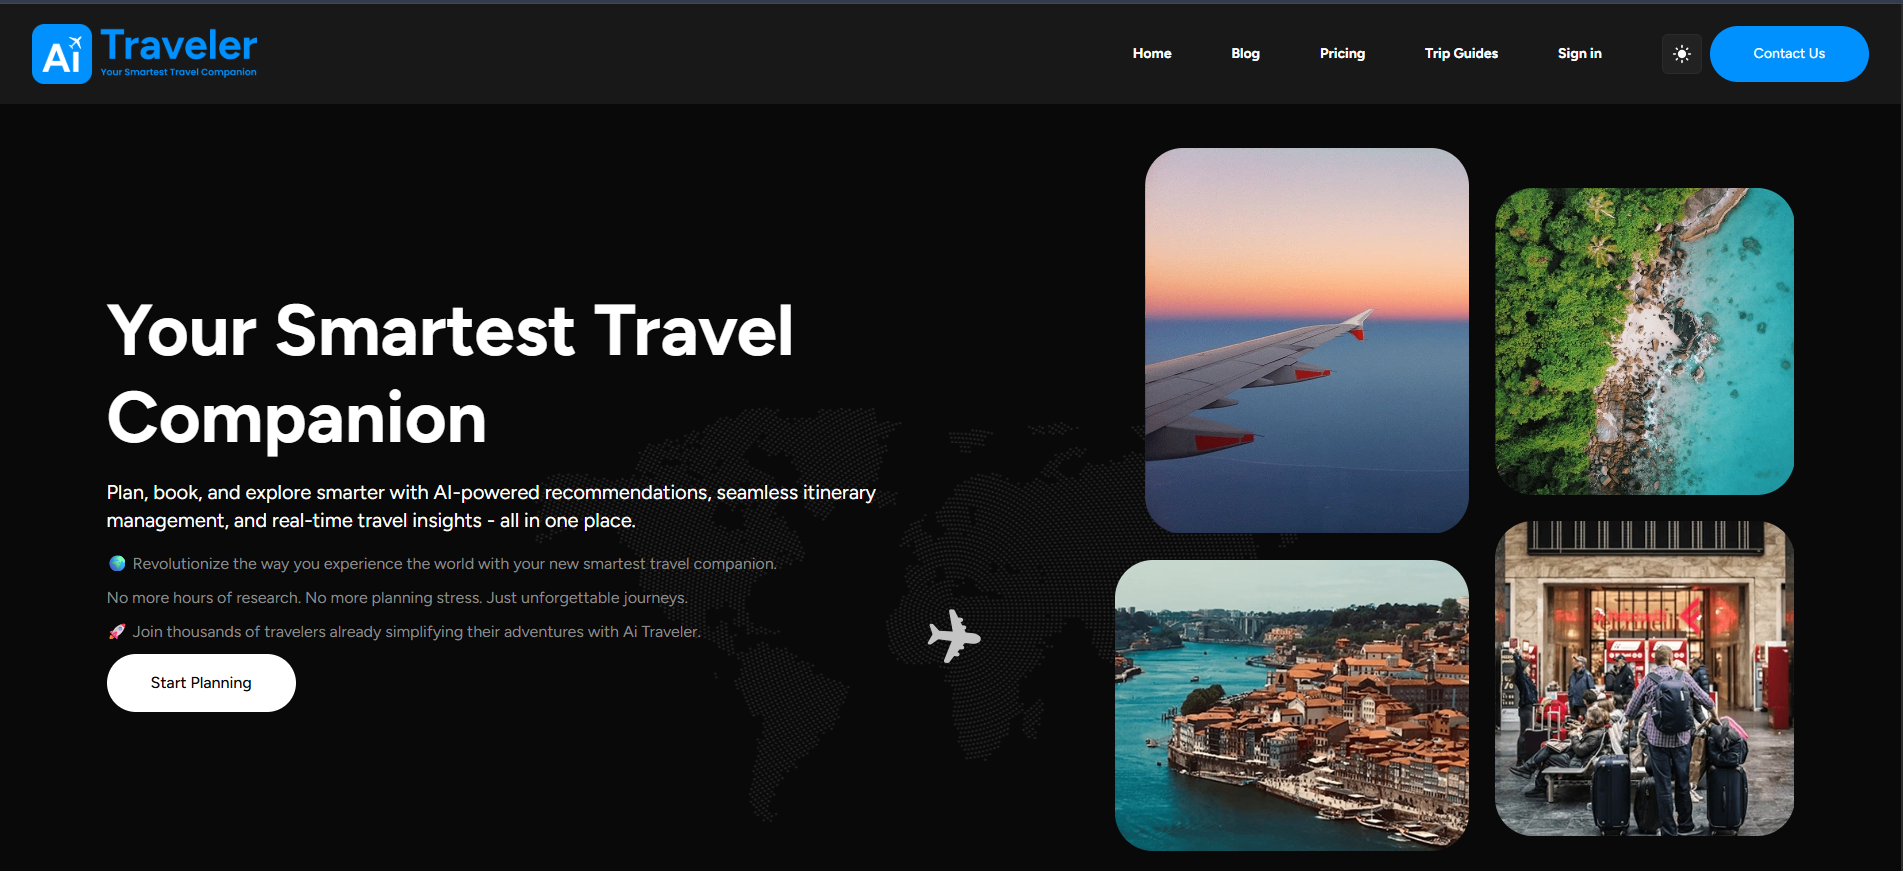
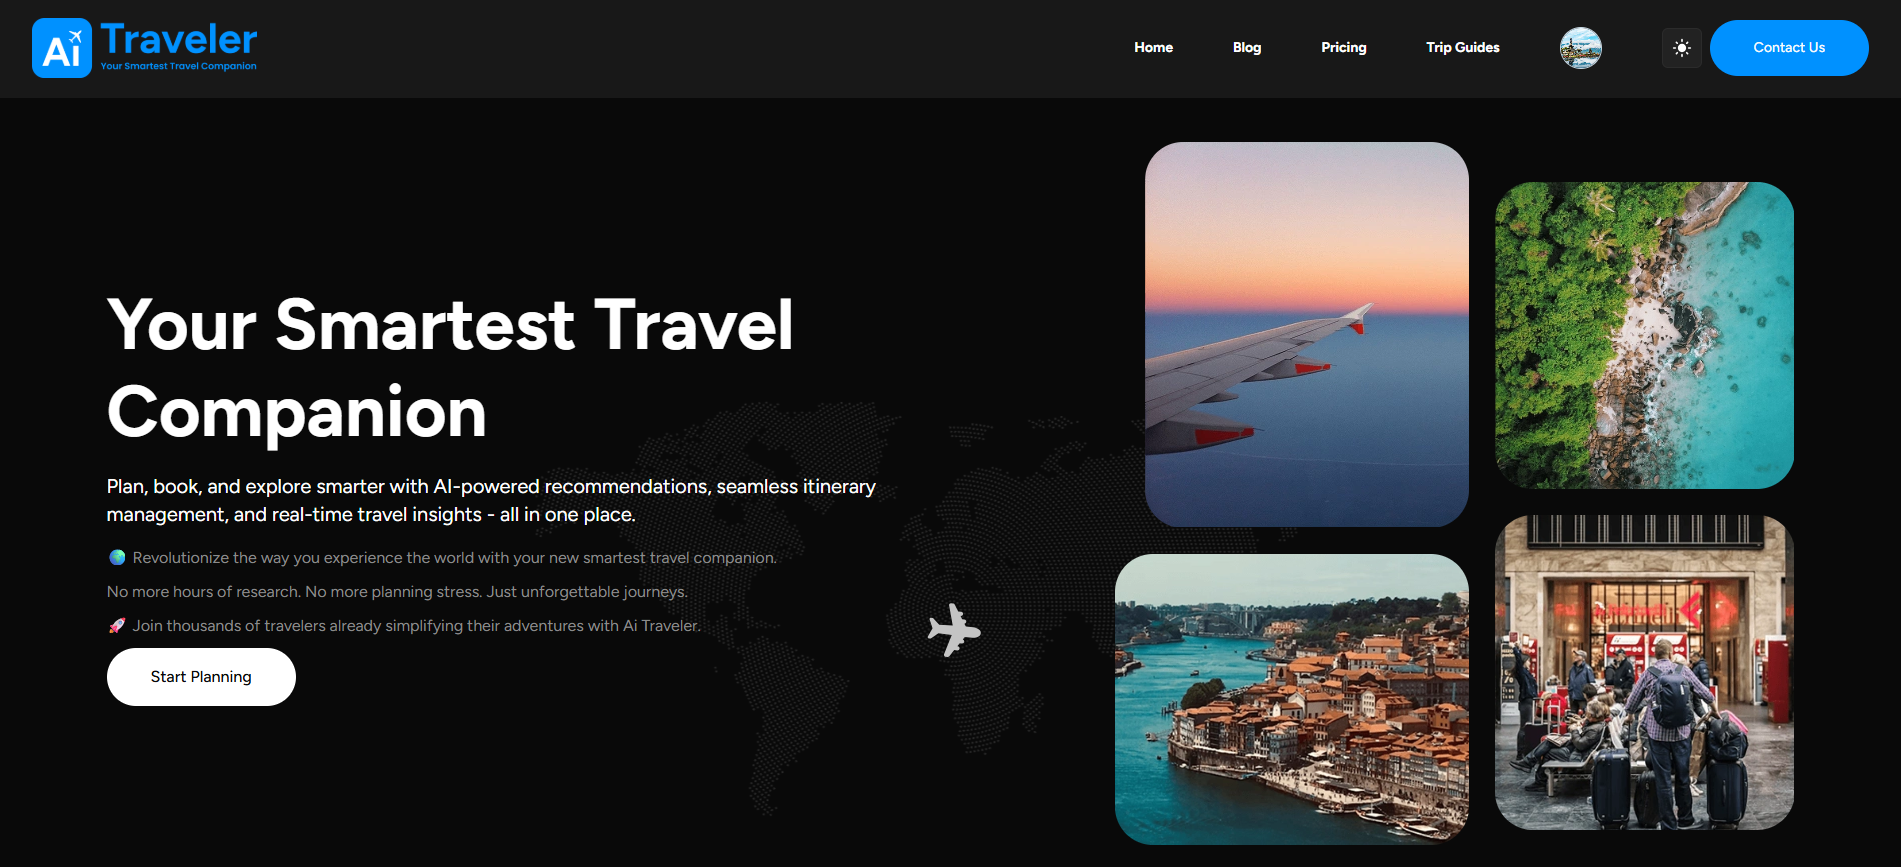
setup the data and image int the projects

diff --git a/src/components/Projects.tsx b/src/components/Projects.tsx
@@ -6,6 +6,11 @@ import Link from "next/link";
 import { useRef, useState, useEffect } from "react";
 import Image from "next/image";
 import aitraveler from "../assets/projects/aitraveler.png"
+import p3jets from "../assets/projects/p3.png"
+import fivepull from "../assets/projects/fivepull.png"
+import porterYatch from "../assets/projects/porterYatch.png"
+import portfolio from "../assets/projects/portfolio.png"
+import gamming from "../assets/projects/gamming.png"
 
 interface Project {
   title: string;
@@ -20,57 +25,57 @@ const projects = [
   {
     title: "AI-Traveler",
     description:
-      "A comprehensive dashboard for managing products, orders, and customers with real-time analytics.",
-    tech: ["Next.js", "TypeScript", "TailwindCSS", "Prisma"],
+      "I developed Skillzap ai Travel website where users can create a personalized itinerary with the help of AI. Users can chat with the AI to ask for details about different places and customize their trip according to their preferences. They can also set their travel budget, and based on that, the AI generates a complete trip plan.",
+    tech: ["React JS", "JavaScript", "Tailwind CSS", "Stripe"],
     image: aitraveler,
-    live: "#",
+    live: "https://aitraveler.ai/",
     github: "#",
   },
   {
-    title: "Social Media App",
+    title: "P3 Jets",
     description:
-      "A full-featured social media platform with real-time chat, posts, and user authentication.",
-    tech: ["React", "Node.js", "Socket.io", "MongoDB"],
-    image: aitraveler,
-    live: "#",
+      "I developed a high-performance, SEO-optimized Next.js website for a luxury jet booking company. The platform enables users to explore and book premium private jets through an elegant, modern interface, with fast server-side rendering to improve search visibility. I implemented an advanced multi-filter system that allows users to refine listings by location, duration, aircraft length, price, and amenities, ensuring a smooth and intuitive browsing experience. The website is fully responsive, speed-optimized, and designed to showcase luxury jet listings in a visually appealing and user-focused way.",
+    tech: ["Next.js", "Tailwind CSS", "firebase"],
+    image: p3jets,
+    live: "https://www.p3jets.com/",
     github: "#",
   },
   {
-    title: "Task Management Tool",
+    title: "FivePull",
     description:
-      "A productivity app for teams to organize tasks, set deadlines, and track progress.",
-    tech: ["Vue.js", "Firebase", "Vuex"],
-    image: aitraveler,
-    live: "#",
+      "It is a modern and clean single-page landing website designed with a simple yet elegant user interface and smooth animations to create an engaging user experience. The landing page is fully responsive and optimized for performance, ensuring fast loading and seamless interaction across all devices.",
+    tech: ["React JS", "Tailwind CSS"],
+    image: fivepull,
+    live: "https://tranquil-basbousa-1d5c14.netlify.app/",
     github: "#",
   },
   {
-    title: "Portfolio Website",
+    title: "Porter Yachts",
     description:
-      "A modern portfolio website with smooth animations and dark mode support.",
-    tech: ["Next.js", "Framer Motion", "TailwindCSS"],
-    image: aitraveler,
-    live: "#",
+      "I developed a high-performance, SEO-optimized Next.js website for a luxury yacht booking company that allows users to explore and book premium yachts through a modern, elegant, and user-friendly interface. The platform uses fast server-side rendering to improve search visibility and overall performance. I implemented an advanced multi-filter system that enables users to refine yacht listings by location, duration, length, price, and amenities, providing a smooth and intuitive browsing experience. The website is fully responsive, speed-optimized, and carefully designed to showcase luxury yacht listings in a visually engaging and user-centric manner.",
+    tech: ["Next.js", "Tailwind CSS", "firebase"],
+    image: porterYatch,
+    live: "https://www.porteryachts.com/",
     github: "#",
   },
   {
-    title: "Weather App",
+    title: "Gamming",
     description:
-      "A beautiful weather application providing real-time forecasts and weather maps.",
-    tech: ["React", "OpenWeather API", "Chart.js"],
-    image: aitraveler,
-    live: "#",
+      "I developed a modern gaming website built with rich and immersive GSAP animations, designed to deliver a highly engaging and interactive user experience. The website features advanced, smooth, and visually dynamic animations that help create a modern gaming feel, with seamless transitions between sections and interactions.",
+    tech: ["React", "GSAP", "motion", "Tailwind CSS"],
+    image: gamming,
+    live: "https://gamewebsitevatsal.netlify.app/",
     github: "#",
   },
-  {
-    title: "Fitness Tracker",
-    description:
-      "An app to track workouts, diet, and health metrics with visual progress charts.",
-    tech: ["React Native", "Redux", "Node.js"],
-    image: aitraveler,
-    live: "#",
-    github: "#",
-  },
+  // {
+  //   title: "Fitness Tracker",
+  //   description:
+  //     "An app to track workouts, diet, and health metrics with visual progress charts.",
+  //   tech: ["React Native", "Redux", "Node.js"],
+  //   image: aitraveler,
+  //   live: "#",
+  //   github: "#",
+  // },
 ];
 
 export default function Projects() {
@@ -102,7 +107,7 @@ export default function Projects() {
           <div className="absolute bottom-[20%] right-[10%] w-[30%] h-[30%] bg-secondary rounded-full blur-[100px]" />
         </div>
 
-        <div className="absolute top-10 left-0 w-full text-center z-10">
+        <div className="absolute top-[80px] left-0 w-full text-center z-10">
           <motion.div
             initial={{ opacity: 0, y: 20 }}
             whileInView={{ opacity: 1, y: 0 }}
@@ -125,7 +130,7 @@ export default function Projects() {
           </motion.div>
         </div>
 
-        <motion.div style={{ x }} className="flex gap-8 px-10 md:px-20">
+        <motion.div style={{ x }} className="flex gap-8 px-10 md:px-20 pt-[110px]">
           {projects.map((project) => (
             <div
               key={project.title}
@@ -137,7 +142,7 @@ export default function Projects() {
                   src={project.image}
                   alt={project.title}
                   fill
-                  className="object-cover transition-transform duration-500 group-hover:scale-110"
+                  className="object-fill  transition-transform duration-500 group-hover:scale-110"
                 />
               </div>
 
@@ -170,11 +175,11 @@ export default function Projects() {
               initial={{ opacity: 0, scale: 0.9, y: 20 }}
               animate={{ opacity: 1, scale: 1, y: 0 }}
               exit={{ opacity: 0, scale: 0.9, y: 20 }}
-              className="relative w-full max-w-7xl max-h-[95vh] overflow-hidden rounded-3xl border border-white/10 bg-[#0a0a0a] shadow-[0_0_50px_rgba(0,0,0,0.5)] flex flex-col"
+              className="relative w-full max-w-7xl max-h-[95vh] overflow-hidden rounded-3xl border border-primary/40 bg-[#0a0a0a] shadow-[0_0_80px_rgba(59,130,246,0.4),_0_0_30px_rgba(59,130,246,0.2)] flex flex-col"
             >
               {/* Decorative Background Glows */}
-              <div className="absolute top-[-10%] right-[-10%] w-[40%] h-[40%] bg-primary/20 rounded-full blur-[100px] pointer-events-none" />
-              <div className="absolute bottom-[-10%] left-[-10%] w-[40%] h-[40%] bg-secondary/10 rounded-full blur-[100px] pointer-events-none" />
+              <div className="absolute top-[-10%] right-[-10%] w-[40%] h-[40%] bg-primary/30 rounded-full blur-[100px] pointer-events-none" />
+              <div className="absolute bottom-[-10%] left-[-10%] w-[40%] h-[40%] bg-secondary/20 rounded-full blur-[100px] pointer-events-none" />
 
               <button
                 onClick={() => setSelectedProject(null)}
@@ -183,37 +188,36 @@ export default function Projects() {
                 <X size={20} />
               </button>
 
-              <div className="relative z-10 grid grid-cols-1 lg:grid-cols-2 h-full overflow-y-auto custom-scrollbar">
+              <div className="relative z-10 flex flex-col h-full overflow-y-auto custom-scrollbar">
                 {/* Image Section */}
-                <div className="relative h-[300px] lg:h-full min-h-[400px] overflow-hidden">
+                <div className="relative w-full h-[400px] md:h-[600px] shrink-0 overflow-hidden bg-white/5">
                   <Image
                     src={selectedProject.image}
                     alt={selectedProject.title}
                     fill
-                    className="object-cover"
+                    className="object-contain p-4 md:p-8"
                   />
-                  <div className="absolute inset-0 bg-gradient-to-t from-[#0a0a0a] via-transparent to-transparent lg:hidden" />
-                  <div className="absolute inset-0 bg-gradient-to-r from-transparent via-transparent to-[#0a0a0a] hidden lg:block" />
+                  <div className="absolute inset-x-0 bottom-0 h-32 bg-gradient-to-t from-[#0a0a0a] to-transparent pointer-events-none" />
                 </div>
 
                 {/* Content Section */}
-                <div className="p-8 md:p-12 flex flex-col justify-center space-y-10 bg-[#0a0a0a]/50 backdrop-blur-sm">
-                  <div className="space-y-4">
+                <div className="p-8 md:p-12 md:pb-20 flex flex-col space-y-12 bg-[#0a0a0a]/50 backdrop-blur-sm">
+                  <div className="space-y-6">
                     <motion.h3
-                      initial={{ opacity: 0, x: -20 }}
-                      animate={{ opacity: 1, x: 0 }}
-                      className="text-4xl md:text-5xl font-bold neon-text tracking-tight"
+                      initial={{ opacity: 0, y: 20 }}
+                      animate={{ opacity: 1, y: 0 }}
+                      className="text-4xl md:text-6xl font-bold neon-text tracking-tight"
                     >
                       {selectedProject.title}
                     </motion.h3>
-                    <div className="flex flex-wrap gap-2">
+                    <div className="flex flex-wrap gap-3">
                       {selectedProject.tech.map((t, i) => (
                         <motion.span
                           key={t}
-                          initial={{ opacity: 0, y: 10 }}
-                          animate={{ opacity: 1, y: 0 }}
-                          transition={{ delay: i * 0.1 }}
-                          className="text-xs px-4 py-1.5 bg-white/5 border border-white/10 rounded-full text-primary-200 font-medium tracking-wide uppercase"
+                          initial={{ opacity: 0, scale: 0.8 }}
+                          animate={{ opacity: 1, scale: 1 }}
+                          transition={{ delay: i * 0.05 }}
+                          className="text-xs md:text-sm px-5 py-2 bg-white/5 border border-white/10 rounded-full text-primary-200 font-medium tracking-wide uppercase"
                         >
                           {t}
                         </motion.span>
@@ -221,34 +225,39 @@ export default function Projects() {
                     </div>
                   </div>
 
-                  <div className="space-y-8">
-                    <div className="space-y-3">
-                      <h4 className="text-lg font-semibold text-white/90 flex items-center gap-2">
-                        <span className="w-8 h-[1px] bg-primary" />
+                  <div className="grid grid-cols-1 lg:grid-cols-3 gap-12">
+                    <div className="lg:col-span-2 space-y-4">
+                      <h4 className="text-xl font-semibold text-white/90 flex items-center gap-3">
+                        <span className="w-10 h-[1px] bg-primary" />
                         About the Project
                       </h4>
-                      <p className="text-gray-400 leading-relaxed text-lg">
+                      <p className="text-gray-400 leading-relaxed text-xl">
                         {selectedProject.description}
-                        {" "}Lorem ipsum dolor sit amet, consectetur adipiscing elit. Sed do eiusmod tempor incididunt ut labore et dolore magna aliqua.
+                        {" "}Lorem ipsum dolor sit amet, consectetur adipiscing elit. Sed do eiusmod tempor incididunt ut labore et dolore magna aliqua. Ut enim ad minim veniam, quis nostrud exercitation ullamco laboris nisi ut aliquip ex ea commodo consequat.
                       </p>
                     </div>
 
-                    <div className="flex flex-col sm:flex-row gap-5 pt-4">
-                      <Link
-                        href={selectedProject.live}
-                        className="group/btn relative flex items-center justify-center gap-2 px-8 py-4 bg-primary text-white rounded-xl font-bold transition-all duration-500 overflow-hidden"
-                      >
-                        <div className="absolute inset-0 bg-blue-600 translate-y-full group-hover/btn:translate-y-0 transition-transform duration-500" />
-                        <span className="relative flex items-center gap-2">
-                          <ExternalLink size={20} /> Launch Project
-                        </span>
-                      </Link>
-                      <Link
-                        href={selectedProject.github}
-                        className="flex items-center justify-center gap-2 px-8 py-4 bg-white/5 hover:bg-white/10 text-white rounded-xl font-bold transition-all duration-300 border border-white/10"
-                      >
-                        <Github size={20} /> View Source
-                      </Link>
+                    <div className="flex flex-col gap-6 pt-4 lg:pt-0">
+                      <h4 className="text-xl font-semibold text-white/90">Actions</h4>
+                      <div className="flex flex-col gap-4">
+                        <Link
+                          href={selectedProject.live}
+                          target="_blank"
+                          rel="noopener noreferrer"
+                          className="group/btn relative flex items-center justify-center gap-3 px-8 py-5 bg-primary text-white rounded-2xl font-bold transition-all duration-500 overflow-hidden text-lg"
+                        >
+                          <div className="absolute inset-0 bg-blue-600 translate-y-full group-hover/btn:translate-y-0 transition-transform duration-500" />
+                          <span className="relative flex items-center gap-3">
+                            <ExternalLink size={22} /> Launch Project
+                          </span>
+                        </Link>
+                        {/* <Link
+                          href={selectedProject.github}
+                          className="flex items-center justify-center gap-3 px-8 py-5 bg-white/5 hover:bg-white/10 text-white rounded-2xl font-bold transition-all duration-300 border border-white/10 text-lg"
+                        >
+                          <Github size={22} /> View Source
+                        </Link> */}
+                      </div>
                     </div>
                   </div>
                 </div>

diff --git a/src/app/globals.css b/src/app/globals.css
@@ -46,7 +46,7 @@ body {
 
 /* Custom Scrollbar */
 ::-webkit-scrollbar {
-  width: 8px;
+  width: 10px;
 }
 
 ::-webkit-scrollbar-track {
@@ -54,10 +54,26 @@ body {
 }
 
 ::-webkit-scrollbar-thumb {
-  background: #333;
-  border-radius: 4px;
+  background: var(--primary);
+  border-radius: 10px;
+  border: 3px solid var(--background);
 }
 
 ::-webkit-scrollbar-thumb:hover {
-  background: #555;
+  background: #60a5fa;
+}
+
+.custom-scrollbar::-webkit-scrollbar {
+  width: 8px;
+}
+
+.custom-scrollbar::-webkit-scrollbar-thumb {
+  background: rgba(59, 130, 246, 0.5);
+  border: 2px solid transparent;
+  background-clip: padding-box;
+  border-radius: 10px;
+}
+
+.custom-scrollbar::-webkit-scrollbar-thumb:hover {
+  background: rgba(59, 130, 246, 0.8);
 }
